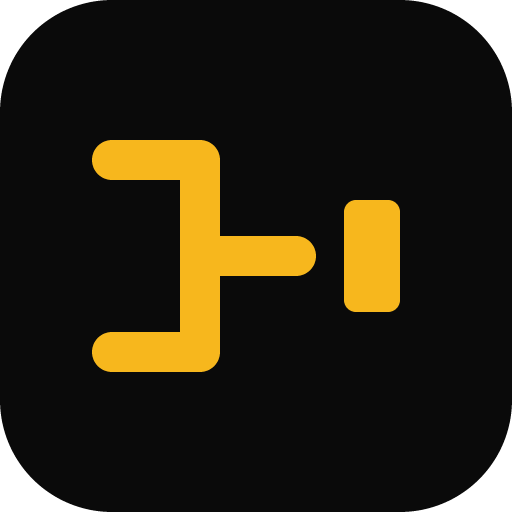
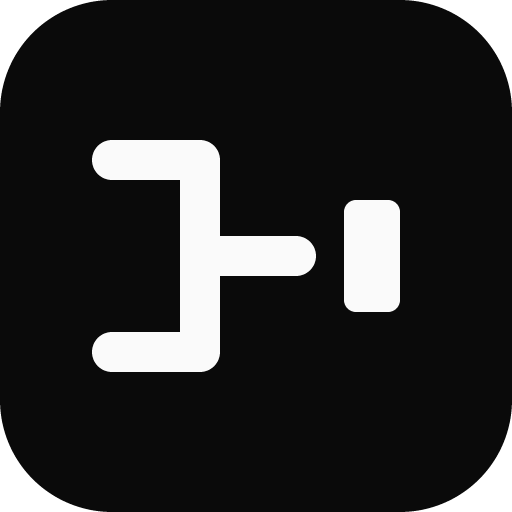
switch mark to white and add og image
White replaces gold across the favicon set, and a rendered og.png
(centered mark, title below, top-edge glows) is wired into site-head
with og:image/twitter:image tags and a summary_large_image card.

Changed region(s): [[0.1562, 0.25, 0.625, 0.75], [0.6562, 0.375, 0.7812, 0.625]]

diff --git a/web/src/lib/components/shell/site-head.svelte b/web/src/lib/components/shell/site-head.svelte
@@ -6,6 +6,7 @@
 	let { title, description }: { title: string; description: string } = $props();
 
 	const canonical = $derived(page.url.origin + page.url.pathname);
+	const ogImage = $derived(page.url.origin + "/og.png");
 </script>
 
 <svelte:head>
@@ -17,7 +18,12 @@
 	<meta property="og:title" content={title} />
 	<meta property="og:description" content={description} />
 	<meta property="og:url" content={canonical} />
-	<meta name="twitter:card" content="summary" />
+	<meta property="og:image" content={ogImage} />
+	<meta property="og:image:width" content="1200" />
+	<meta property="og:image:height" content="630" />
+	<meta property="og:image:alt" content={CONTEST_TITLE} />
+	<meta name="twitter:card" content="summary_large_image" />
 	<meta name="twitter:title" content={title} />
 	<meta name="twitter:description" content={description} />
+	<meta name="twitter:image" content={ogImage} />
 </svelte:head>
